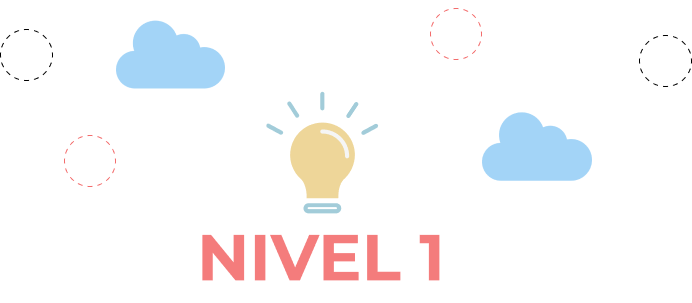
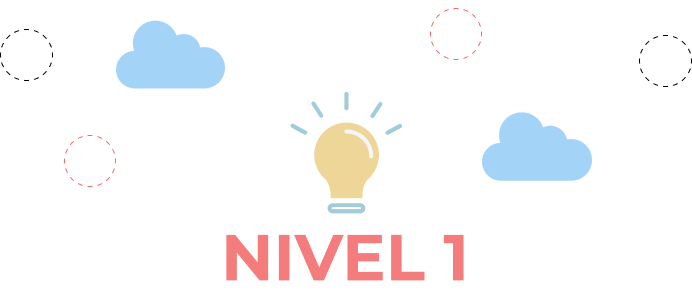
finished level 1

Changed region(s): [[0.2731, 0.7723, 0.6676, 0.9505], [0.3642, 0.297, 0.5766, 0.7129], [0.5462, 0.3267, 0.5766, 0.3564]]

diff --git a/script.js b/script.js
@@ -1,12 +1,12 @@
 let openTitle = document.querySelector(".openTitle")
 let openTitleLogo = document.querySelector(".openTitle>div")
 let openTitleBtn = document.querySelector(".openTitle>h1")
-let openTitleLvl1 = document.querySelector(".openTitle>img")
+let openTitleImg = document.querySelector(".openTitle>img")
 let instrucciones = document.querySelectorAll(".instructions")
 let instruccionesBtn = document.querySelectorAll(".btnHelp")
 
 
-let nivel = "menu"
+let nivel = 0
 
 
 
@@ -21,18 +21,28 @@ openTitleBtn.addEventListener("click", function () {
 
     setTimeout(function () {
 
-        openTitleLvl1.style.display = "block"
+        openTitleImg.style.display = "block"
         openTitleLogo.style.display = "none"
     }, 700)
 
     setTimeout(function () {
-        openTitleLvl1.style.opacity = "1"
-        openTitleLvl1.classList.add("slideInUp")
-        nivel = 1
+        openTitleImg.style.opacity = "1"
+        openTitleImg.classList.add("slideInUp")
+        if (nivel == 0) nivel = 1
     }, 800)
 
 
     if (nivel == 1) {
+        openTitle.classList.add("slideOutUp")
+
+        setTimeout(function () {
+            openTitle.style.opacity = "0"
+
+        }, 300)
+    }
+
+
+    if (nivel == 2) {
         openTitle.classList.add("slideOutUp")
 
         setTimeout(function () {
@@ -59,15 +69,18 @@ de la ciudad.. Entusiasmada emprende el viaje, al llegar se da cuenta de que su 
 
 let phrase = story.split(". ")
 let phraseBackup = story.split(". ")
-
+let game = document.querySelector(".game")
 let board = document.querySelector(".board")
 let pool = document.querySelector(".pool")
 let btnPool = document.querySelector(".btnPool")
 let poolWords = document.querySelector(".poolWords")
+let gameOver = document.querySelector(".gameOver")
+let gameOverImg = document.querySelector(".gameOver>div>img")
+let gameOverH1 = document.querySelector(".gameOver>div>h1")
+let gameOverBtn = document.querySelector(".btnGameOver")
 let cardsCreated = false;
 let poolClosed = false
 let poolOpened = true
-
 let wordCards
 let mistakes = 0
 let boardCards
@@ -84,7 +97,7 @@ for (let index = 0; index < instruccionesBtn.length; index++) {
 
         setTimeout(function () {
             instrucciones[nivel - 1].style.display = "none";
-            board.style.filter = "none"
+            board.classList.remove("blur")
             poolWords.classList.add("fadeIn")
 
             if (cardsCreated == false) {
@@ -146,7 +159,7 @@ function createCards() {
     cardsCreated = true
 }
 
-
+//closes the modal of gameOver
 
 
 
@@ -200,9 +213,7 @@ function shuffle(array) {
     return array;
 }
 
-
 //finish
-
 
 function mistakeCount() {
 
@@ -216,11 +227,60 @@ function mistakeCount() {
         }
 
         if (mistakes == 0) {
-            alert("VICTORIA")
+
+            gameOverH1.style.display = "none"
+            gameOverImg.src = "./data/win.png"
+
         } else {
-            alert("TUVISTE " + mistakes + " ERRORES")
+            gameOverH1.textContent = mistakes + " ERRORES"
+            gameOverImg.src = "./data/lose.png"
         }
+
+        game.classList.add("blur")
+        gameOver.style.display = "flex"
+
+        setTimeout(function () {
+            gameOver.style.opacity = "1"
+
+        }, 1)
+
+    }
+}
+
+gameOverBtn.addEventListener("click", function () {
+    game.classList.remove("blur")
+    gameOver.style.opacity = "0"
+
+    setTimeout(function () {
+        gameOver.style.display = "none"
+    }, 500)
+
+
+    openTitle.style.opacity = "1"
+    openTitleImg.src = "./data/level2.png"
+    nivel = 2
+    openTitle.classList.remove("slideOutUp")
+
+
+    //borra todas las tarjetas
+    for (let i = 0; i < wordCards.length; i++) {
+        board.removeChild(wordCards[i])
 
     }
 
-}
+
+    setTimeout(function () {
+        openTitle.classList.add("slideInDown")
+
+    }, 1)
+
+    setTimeout(function () {
+        instrucciones[nivel - 1].style.display = "flex"
+    }, 1000)
+
+
+
+
+
+
+})

diff --git a/style.css b/style.css
@@ -8,6 +8,9 @@ body {
     width: 100%;
     height: 100%;
     display: flex;
+    flex-direction: column;
+    justify-content: center;
+    align-items: center;
 
 }
 
@@ -19,6 +22,7 @@ body {
     width: 1280px;
     height: 720px;
     margin: auto;
+
 }
 
 .board {
@@ -33,10 +37,12 @@ body {
     height: 25%;
     margin-top: 30px;
     margin-bottom: 30px;
+
+}
+
+.blur {
     filter: blur(3px);
-
-
-
+    transition: filter 0.5s ease-in-out;
 }
 
 .pool {
@@ -61,6 +67,7 @@ body {
     cursor: pointer;
     box-shadow: 0 0 0 .1px #F36D6D;
     transition: box-shadow 0.2s ease-in-out, height 0.5s ease-in-out, width 0.5s ease-in-out;
+    z-index: 1;
 }
 
 .btnPool:hover {
@@ -112,6 +119,7 @@ body {
     width: 1280px;
     height: 720px;
     transition: opacity .5s ease-in-out;
+    z-index: 2;
 }
 
 .openTitle>div {
@@ -122,11 +130,6 @@ body {
     transition: opacity .5s ease-in-out;
 }
 
-.openTitle>div>img {
-
-
-    margin-left: 30px;
-}
 
 .openTitle>div>div {
     background-color: #F36D6D;
@@ -169,7 +172,7 @@ body {
 .openTitle>img {
     display: none;
     width: 500px;
-    margin-left: 40px;
+
     margin-bottom: 20px;
     opacity: 0;
     transition: opacity 0.5s ease-in-out;
@@ -293,11 +296,48 @@ body {
 }
 
 
-
-
 .instructionsLvl2 {
     display: none;
 }
+
+.gameOver {
+
+    position: absolute;
+    display: none;
+    flex-direction: column;
+    z-index: 3;
+    align-items: center;
+    justify-content: center;
+    opacity: 0;
+    transition: opacity 0.5s ease-in-out;
+}
+
+.gameOver>div {
+
+    display: flex;
+    flex-direction: column;
+    justify-content: center;
+    align-items: center;
+    width: 400px;
+    height: 320px;
+    border-radius: 25px;
+    margin-bottom: 20px;
+}
+
+.gameOver>div>h1 {
+    position: absolute;
+    margin-top: 40px;
+    text-align: center;
+    width: 90%;
+    font-size: 25px;
+    font-weight: 600;
+    color: #F7AA0B;
+    font-family: 'Roboto', sans-serif;
+}
+
+
+
+
 
 @media (max-width: 1280px) {
     .game {
@@ -343,6 +383,12 @@ body {
 
     }
 
+    .btn {
+        font-size: 14px;
+        width: 100px;
+        transition: font-size 0.5s ease-in-out, width 0.5s ease-in-out;
+    }
+
     .instructions>div {
 
         flex-direction: column;
@@ -370,8 +416,15 @@ body {
 
     .openTitle>div>img {
 
-
         width: 200px;
+    }
+
+    .openTitle>img {
+
+        width: 300px;
+        transition: width 0.5s ease-in-out;
+
+
     }
 
 

diff --git a/index.html b/index.html
@@ -27,7 +27,7 @@
         <!--/////////////////////////////////////////////////////////////////////////-->
         <!--/////////////////////////////////////////////////////////////////////////-->
 
-        <section class="board">
+        <section class="board blur">
 
 
 
@@ -60,14 +60,16 @@
                             <p>A continuación contaras con un inventario de recuadros que contienen las partes de una
                                 historia, tu tendrás que ordenar cada fragmento para que dicha historia este completa y
                                 sus
-                                partes tengan cohesión.
+                                partes tengan cohesión. <br>
+                                Usa la esfera roja para cambiar entre las zonas de juego.
                             </p>
                         </div>
                         <div>
                             <img src="./data/instruccion1Right.png">
                             <p>Da click sobre cada una para hacer que haga parte del tablero principal, si te
                                 equivocaste da
-                                click sobre el recuadro para que vuelva al inventario.
+                                click sobre el recuadro para que vuelva al inventario.<br> Cuando hayas puesto la ultima
+                                tarjeta, el juego habrá terminado
                             </p>
                         </div>
                     </div>
@@ -107,7 +109,7 @@
                         </div>
                         <div>
                             <p>¡Escoge del inventario el inicio y desenlace que creas más pertinente, y ayuda a esta
-                                historia a ser una narración completa de nuevo!.</p>
+                                historia a ser una narración completa de nuevo!. </p>
                             <img src="./data/instruccion2Right.png">
 
                         </div>
@@ -148,6 +150,16 @@
             <h1 class="btn">¡EMPEZAR!</h1>
 
         </main>
+    </main>
+
+    <main class="gameOver">
+        <div>
+            <img>
+            <h1>CANTIDAD DE ERRORES</h1>
+
+        </div>
+        <h1 class="btn btnGameOver">SIGUIENTE</h1>
+
     </main>
 
     <!--/////////////////////////////////////////////////////////////////////////-->
